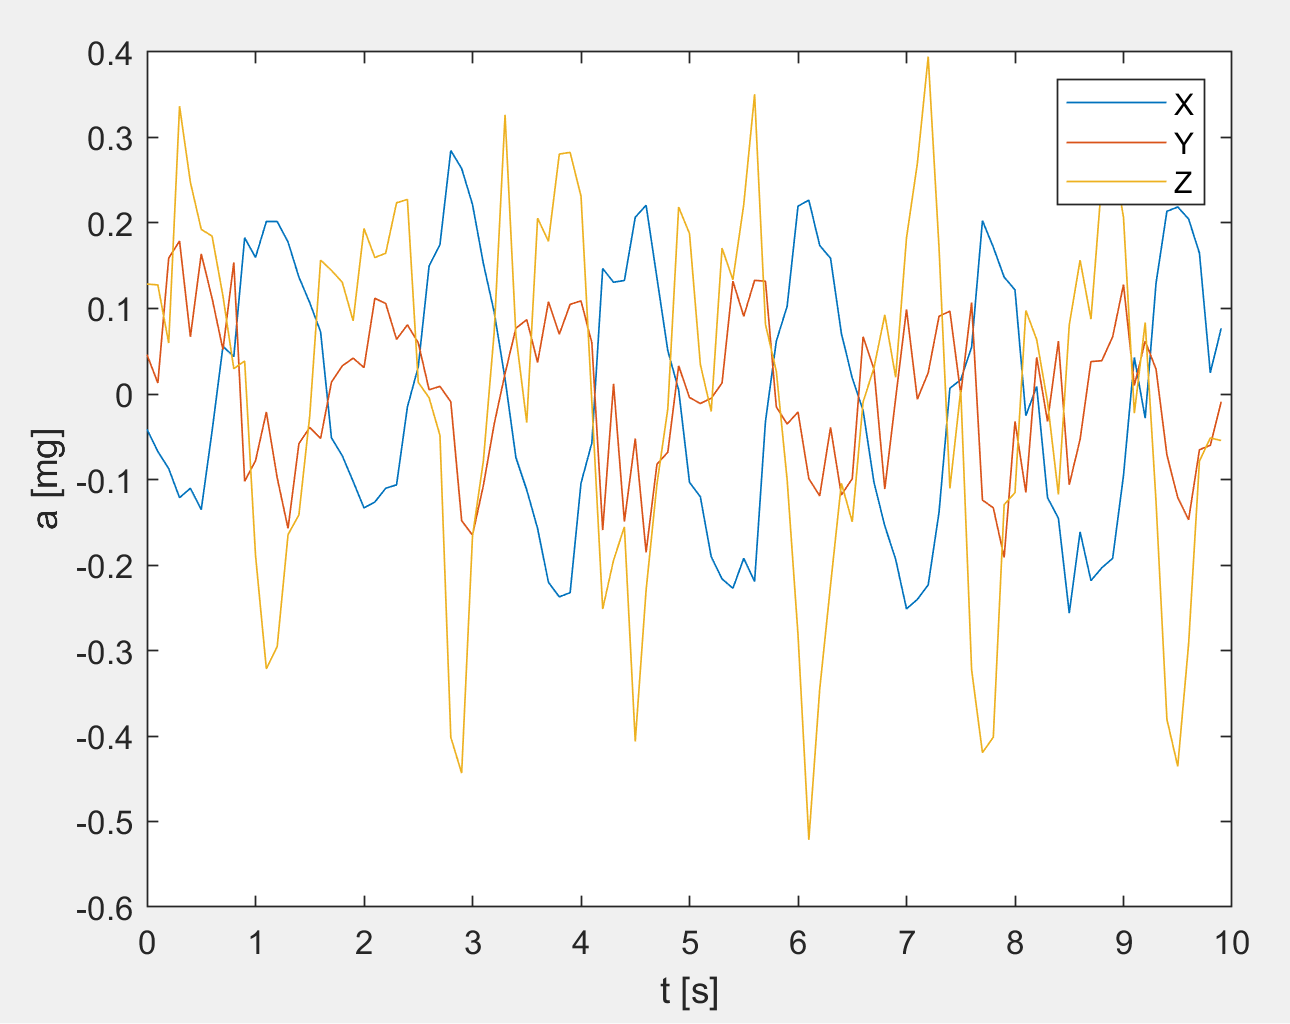
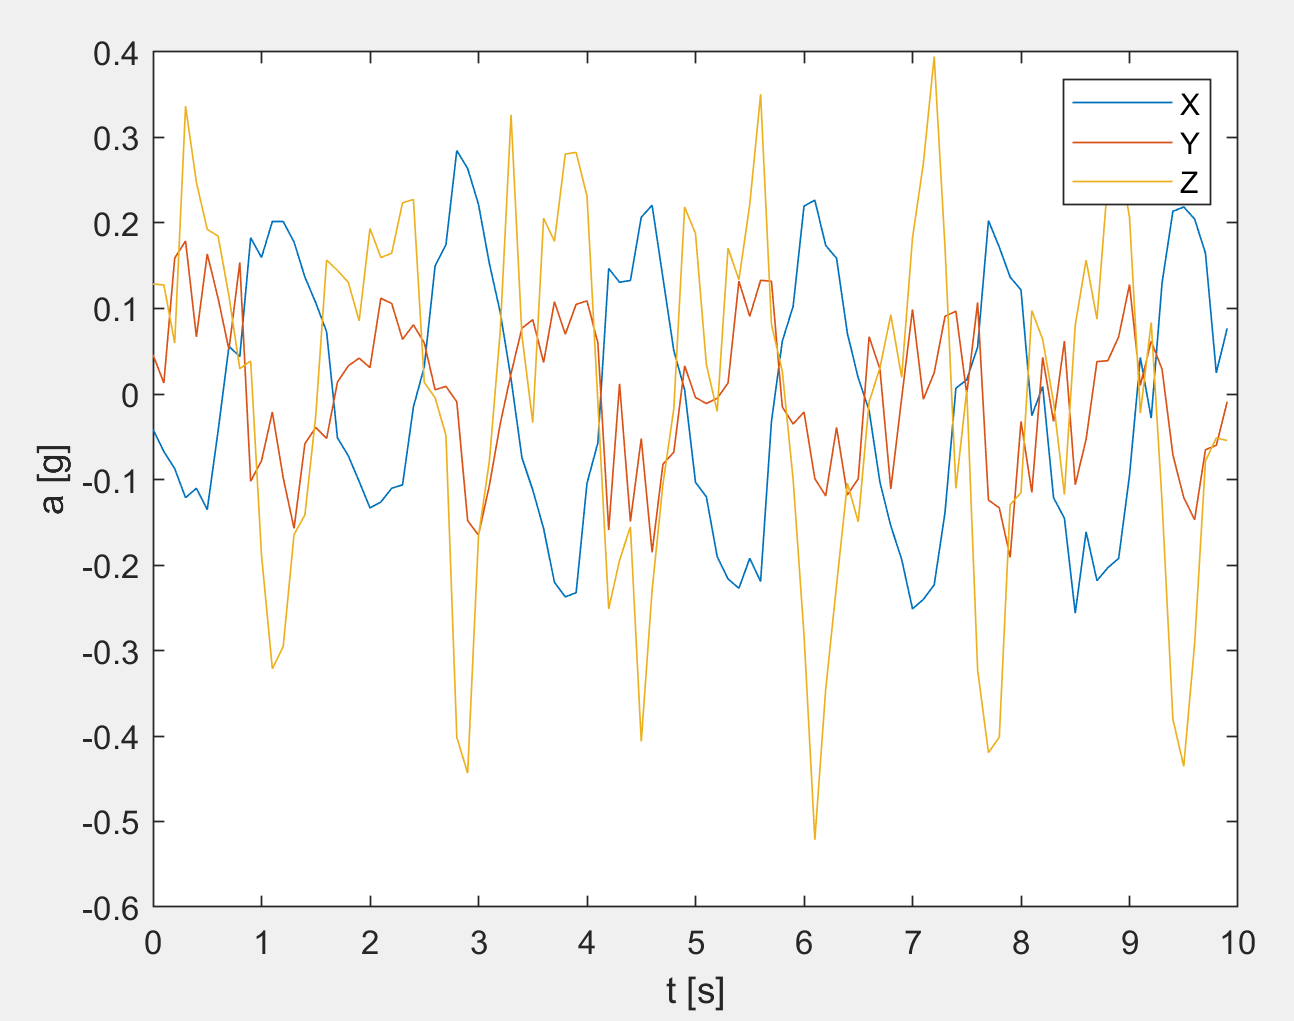
update of the images

Changed region(s): [[0.031, 0.0304, 0.9922, 1.0]]

diff --git a/Laboratorio 15_11_22/OtherFiles/accelerometer.m b/Laboratorio 15_11_22/OtherFiles/accelerometer.m
@@ -17,7 +17,7 @@ t=t*0.1;
 plot(t, arr2);
 legend('X', 'Y', 'Z');
 xlabel('t [s]');
-ylabel('a [mg]');
+ylabel('a [g]');
 
 % Grafico 2
 arr2 = arr2 - mean(arr2,1); 
@@ -25,7 +25,7 @@ filt = movmean(arr2,10);
 plot(t, filt);
 legend('X', 'Y', 'Z');
 xlabel('t [s]');
-ylabel('a [mg]');
+ylabel('a [g]');
 
 freq=sum(diff(gradient(filt)>0)==-1,1)./10
 
